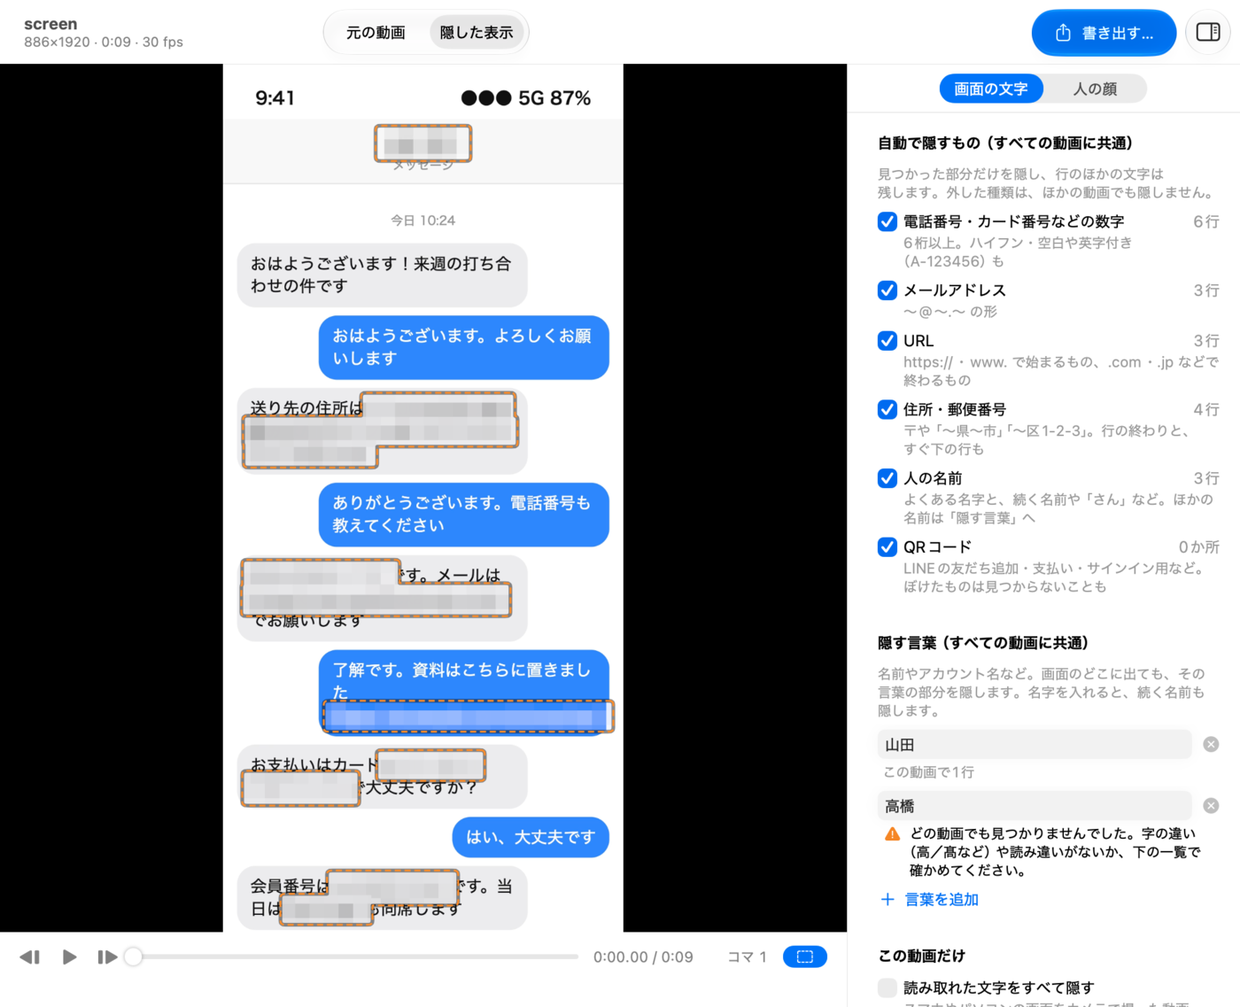
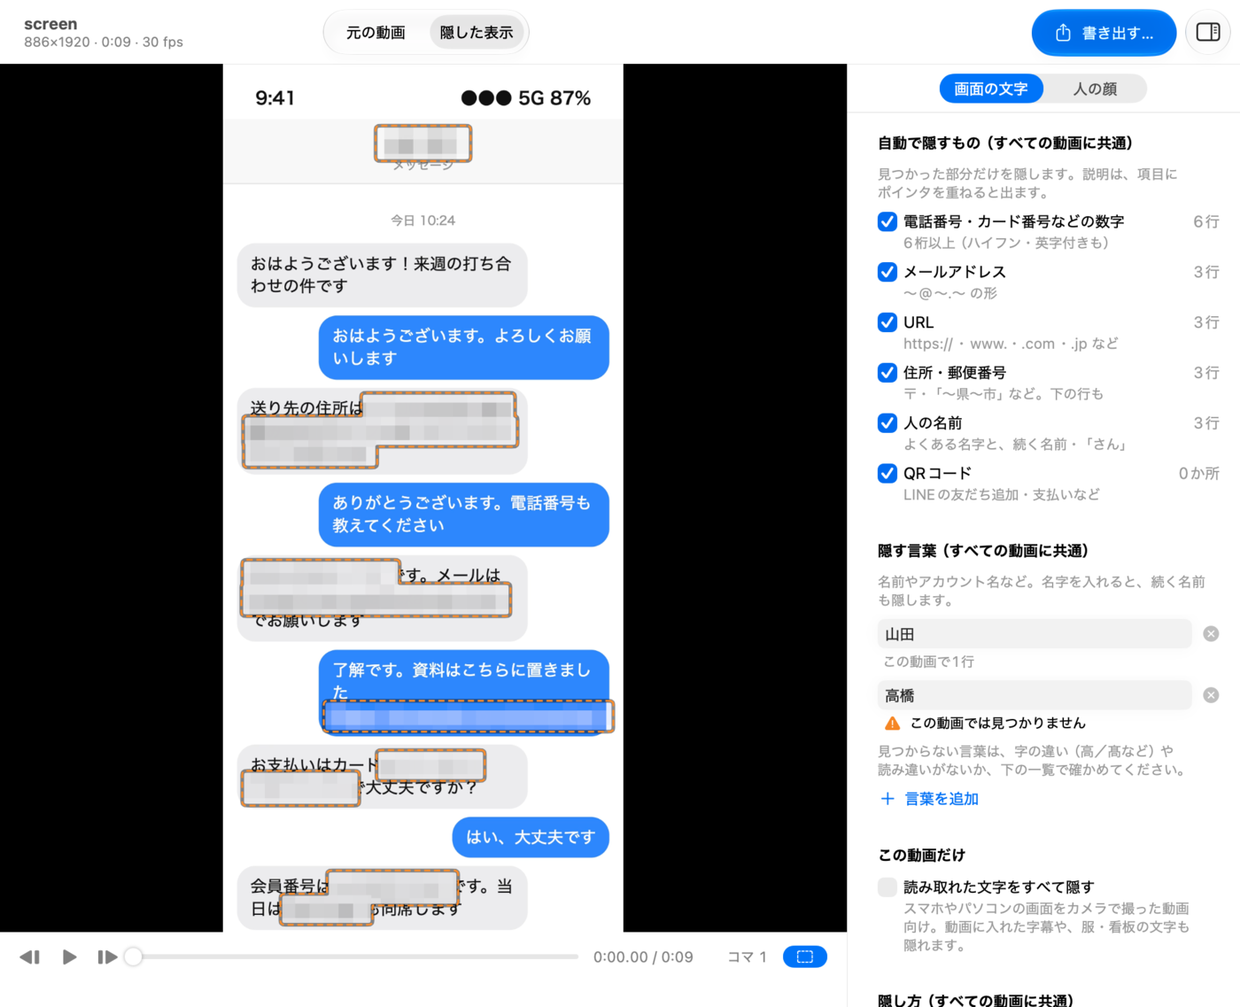
feat(ui): 右の欄の文字を減らし、確かめてほしい場面を書き出す前から出す
- 「自動で隠すもの」の各項目の説明を 1 行に縮めた（2〜3 行ずつあり、欄の
  下が画面の外に出ていた）。くわしい説明はポインタを重ねると出る
- 「隠す言葉」が見つからないときの警告を 1 行にし、対処の案内は言葉の一覧の
  下に 1 回だけ出す（言葉ごとに 3 行の警告が出ていた）
- 隠している顔の数が前後より減る「確かめてほしい場面」を、書き出した後だけで
  なく、人を選んだ時点で再生バーの ▼ に出す。⌘[ / ⌘] で前後の場面へ移れる
  （書き出してから気づくと、選び直して書き出し直すことになっていた）
- README の「画面の文字」の画像を撮り直した（架空データの画面録画）

⌘Q で終了しないように見えた件は、書き出していない動画があるときの確認の
表示で、不具合ではなかった（何も選んでいなければすぐ終了する）。

diff --git a/Sources/WipeMosaicApp/TextInspectorView.swift b/Sources/WipeMosaicApp/TextInspectorView.swift
@@ -12,15 +12,17 @@ extension TextKind {
         case .qr: "QRコード"
         }
     }
-    /// One line under the label; the details are in the help tag.
+    /// One line under the label, short enough not to wrap in the narrowest inspector (two or
+    /// three lines under each of six kinds pushed the rest of the column out of sight); the
+    /// details are in the help tag.
     var note: String {
         switch self {
-        case .number: "6桁以上。ハイフン・空白や英字付き（A-123456）も"
+        case .number: "6桁以上（ハイフン・英字付きも）"
         case .email: "〜@〜.〜 の形"
-        case .url: "https://・www. で始まるもの、.com・.jp などで終わるもの"
-        case .address: "〒や「〜県〜市」「〜区1-2-3」。行の終わりと、すぐ下の行も"
-        case .name: "よくある名字と、続く名前や「さん」など。ほかの名前は「隠す言葉」へ"
-        case .qr: "LINEの友だち追加・支払い・サインイン用など。ぼけたものは見つからないことも"
+        case .url: "https://・www.・.com・.jp など"
+        case .address: "〒・「〜県〜市」など。下の行も"
+        case .name: "よくある名字と、続く名前・「さん」"
+        case .qr: "LINEの友だち追加・支払いなど"
         }
     }
     var detail: String {
@@ -98,7 +100,7 @@ struct TextInspectorView: View {
         Section {
             Text(video.textAll
                  ? "この動画は、読み取れた文字をすべて隠しています（下の「この動画だけ」）。"
-                 : "見つかった部分だけを隠し、行のほかの文字は残します。外した種類は、ほかの動画でも隠しません。")
+                 : "見つかった部分だけを隠します。説明は、項目にポインタを重ねると出ます。")
                 .font(.callout)
                 .foregroundStyle(.secondary)
                 .fixedSize(horizontal: false, vertical: true)
@@ -123,12 +125,12 @@ struct TextInspectorView: View {
                         Text(kind.note)
                             .font(.callout)
                             .foregroundStyle(.secondary)
-                            .fixedSize(horizontal: false, vertical: true)
+                            .lineLimit(1)
                     }
                 }
                 .toggleStyle(.checkbox)
                 .disabled(video.textAll)
-                .help(kind.detail)
+                .help(kind.detail + "外した種類は、ほかの動画でも隠しません。")
                 .listRowSeparator(.hidden)
             }
         } header: {
@@ -162,10 +164,11 @@ struct TextInspectorView: View {
         // Counted where the mosaic is made (in the background); nothing while it is remade.
         let others = model.videos.filter { $0.id != video.id && $0.textMask != nil }
         return Section {
-            Text("名前やアカウント名など。画面のどこに出ても、その言葉の部分を隠します。名字を入れると、続く名前も隠します。")
+            Text("名前やアカウント名など。名字を入れると、続く名前も隠します。")
                 .font(.callout)
                 .foregroundStyle(.secondary)
                 .fixedSize(horizontal: false, vertical: true)
+                .help("画面のどこに出ても、その言葉の部分を隠します。")
                 .listRowSeparator(.hidden)
             ForEach(model.textWords, id: \.self) { w in
                 VStack(alignment: .leading, spacing: 3) {
@@ -177,6 +180,17 @@ struct TextInspectorView: View {
                     }
                 }
                 .listRowSeparator(.hidden)
+            }
+            // What to do about the words not found, once (it was under each of them: three
+            // lines of warning a word, in every video that does not show it).
+            if model.textWords.contains(where: { w in
+                video.textMask?.wordLines[w] == 0 && others.allSatisfy { ($0.textMask?.wordLines[w] ?? 0) == 0 }
+            }) {
+                Text("見つからない言葉は、字の違い（高／髙など）や読み違いがないか、下の一覧で確かめてください。")
+                    .font(.callout)
+                    .foregroundStyle(.secondary)
+                    .fixedSize(horizontal: false, vertical: true)
+                    .listRowSeparator(.hidden)
             }
             if model.addingTextWord || model.textWords.isEmpty {
                 // Return adds the word and leaves a new empty field, to type the next one.
@@ -442,14 +456,15 @@ private struct WordHits: View {
                 .foregroundStyle(.secondary)
                 .padding(.leading, 4)
         } else {
+            // One line a word: what to do about it is said once, under the words.
             Label {
-                Text("\(othersRead ? "どの動画でも" : "この動画では")見つかりませんでした。字の違い（高／髙など）や読み違いがないか、下の一覧で確かめてください。")
-                    .fixedSize(horizontal: false, vertical: true)
+                Text("\(othersRead ? "どの動画でも" : "この動画では")見つかりません")
             } icon: {
                 Image(systemName: "exclamationmark.triangle.fill").foregroundStyle(.orange)
             }
             .font(.callout)
             .padding(.leading, 4)
+            .help("この言葉は隠れていません。字の違い（高／髙など）や読み違いがないか、下の「見つかった文字」の一覧で確かめてください。")
         }
     }
 }

diff --git a/Sources/WipeMosaicApp/PlayerView.swift b/Sources/WipeMosaicApp/PlayerView.swift
@@ -386,7 +386,7 @@ private struct TransportBar: View {
         return d.isFinite && d > 0 ? d : max(video.info?.duration ?? 1, 0.01)
     }
 
-    private var hasDips: Bool { video.summary?.dips.isEmpty == false }
+    private var hasDips: Bool { !model.shownDips.isEmpty }
 
     var body: some View {
         // At the narrowest window the timeline keeps room to drag: the frame number goes
@@ -440,7 +440,7 @@ private struct TransportBar: View {
                  ? "青い太線は「人物 \(id)」が映っている場面です（隠す人）。"
                  : "太線は「人物 \(id)」が映っている場面です（まだ隠していない人）。")
         } else if hasDips {
-            Text("\(Text(Image(systemName: "arrowtriangle.down.fill")).foregroundStyle(.orange))は書き出した動画で確かめてほしい場面です（押すとその場面へ）。")
+            Text("\(Text(Image(systemName: "arrowtriangle.down.fill")).foregroundStyle(.orange))は確かめてほしい場面です（押すとその場面へ。⌘] で次へ）。")
         } else {
             Text(" ").accessibilityHidden(true)
         }
@@ -566,13 +566,14 @@ private struct Timeline: View {
                 }
             }
             .onDisappear { model.timelineHover = nil }
-            // Places to check in the exported file (fewer faces hidden than just before and
-            // after), above the track: a triangle, not a color only.
+            // Places to check (fewer faces hidden than just before and after) with the current
+            // choices, or in the exported file while it is shown, above the track: a triangle,
+            // not a color only.
             .overlay(alignment: .topLeading) {
-                if let dips = video.summary?.dips {
-                    ForEach(dips) { d in
+                if hasDips {
+                    ForEach(model.shownDips) { d in
                         Button {
-                            model.review(d)
+                            model.reviewShown(d)
                         } label: {
                             // A glyph big enough to see and a target big enough to hit
                             // (24×24 pt), above the track so it does not take the knob's drags.
@@ -584,7 +585,7 @@ private struct Timeline: View {
                                 .contentShape(Rectangle())
                         }
                         .buttonStyle(.plain)
-                        .help("確かめてほしい場面（\(formatTime(d.start))）：前後より隠す顔が減っています。押すと書き出した動画のこの場面へ移動します")
+                        .help("確かめてほしい場面（\(formatTime(d.start))）：前後より隠す顔が減っています。押すとこの場面へ移動します")
                         .accessibilityLabel("確かめてほしい場面 \(formatTime(d.start))")
                         .position(x: x(d.start), y: -Self.dipRow / 2)
                     }
@@ -615,7 +616,7 @@ private struct Timeline: View {
         }
     }
 
-    private var hasDips: Bool { video.summary?.dips.isEmpty == false }
+    private var hasDips: Bool { !model.shownDips.isEmpty }
     /// Height of the row of dip markers above the track (and of their click targets).
     static let dipRow: CGFloat = 24
 }

diff --git a/Sources/WipeMosaicApp/AppModel.swift b/Sources/WipeMosaicApp/AppModel.swift
@@ -1031,7 +1031,11 @@ final class AppModel {
     /// Push the current selection and settings to the player's mosaic and redraw if paused.
     private func refreshLive() {
         guard let v = current else { return }
-        v.live.update(frames: frames(for: v), render: render(for: v), enabled: viewMode == .mosaic)
+        let frames = frames(for: v)
+        v.live.update(frames: frames, render: render(for: v), enabled: viewMode == .mosaic)
+        // The places to check, before writing the file too: found only after it was written,
+        // each one meant choosing again and writing again.
+        v.liveDips = findDips(frames)
         redrawIfPaused()
     }
 
@@ -1144,9 +1148,17 @@ final class AppModel {
         }
     }
 
-    /// The dips of the exported file before or after the playhead, for the Play menu.
+    /// The places to check in what is shown: of the exported file while it is shown, else of
+    /// the current choices (the same rule, `findDips`).
+    var shownDips: [Dip] {
+        guard let v = current else { return [] }
+        return viewMode == .result ? v.summary?.dips ?? [] : v.liveDips
+    }
+
+    /// The dips shown before or after the playhead, for the Play menu.
     func dip(after: Bool) -> Dip? {
-        guard let dips = current?.summary?.dips, !dips.isEmpty else { return nil }
+        let dips = shownDips
+        guard !dips.isEmpty else { return nil }
         let t = playheadTime
         if after { return dips.first { $0.start > t + 0.01 } }
         return dips.last { $0.start < t - 0.01 }
@@ -1400,6 +1412,14 @@ final class AppModel {
     func review(_ dip: Dip) {
         resetZoom()  // checking the exported file: the whole picture, not a part of it
         viewMode = .result
+        seek(to: dip.start)
+    }
+
+    /// Shows one of `shownDips`: in the exported file while it is shown, else with the mosaic
+    /// of the current choices (not in the original, where nothing is hidden to check).
+    func reviewShown(_ dip: Dip) {
+        resetZoom()
+        if viewMode == .original { viewMode = .mosaic }
         seek(to: dip.start)
     }
 

diff --git a/Sources/WipeMosaicApp/WipeMosaicApp.swift b/Sources/WipeMosaicApp/WipeMosaicApp.swift
@@ -126,13 +126,15 @@ private struct AppCommands: Commands {
             .disabled(!model.hasVideo)
             Divider()
             Button("前の確かめてほしい場面") {
-                if let d = model.dip(after: false) ?? model.current?.summary?.dips.last { model.review(d) }
+                if let d = model.dip(after: false) ?? model.shownDips.last { model.reviewShown(d) }
             }
-            .disabled(model.current?.summary?.dips.isEmpty != false)
+            .keyboardShortcut("[")
+            .disabled(model.shownDips.isEmpty)
             Button("次の確かめてほしい場面") {
-                if let d = model.dip(after: true) ?? model.current?.summary?.dips.first { model.review(d) }
+                if let d = model.dip(after: true) ?? model.shownDips.first { model.reviewShown(d) }
             }
-            .disabled(model.current?.summary?.dips.isEmpty != false)
+            .keyboardShortcut("]")
+            .disabled(model.shownDips.isEmpty)
         }
         CommandMenu("人物") {
             Button("全員を隠す") { model.selectAll() }

diff --git a/Sources/WipeMosaicApp/VideoItem.swift b/Sources/WipeMosaicApp/VideoItem.swift
@@ -250,6 +250,9 @@ final class VideoItem: Identifiable {
         return out
     }
 
+    /// Places to check with the current choices (`findDips`), for the shown video.
+    var liveDips: [Dip] = []
+
     func frames(hold: Double, stickered: Set<Int>) -> [FrameFaces] {
         let faces = analysis?.frames(selected: selected, endHold: hold, stickered: stickered) ?? []
         guard let text, let mask = textMask, !mask.isEmpty else { return faces }

diff --git a/docs/USAGE.md b/docs/USAGE.md
@@ -11,7 +11,7 @@
    - 「人物Nと同じ人かもしれません」：同じ人が分かれて出た可能性。選ぶと一緒に選ばれる
    - 「登録した顔に似ています」「『動画名』で選んだ人に似ています」：最初から選ばれている／選んでいない似た人。選んでいない似た人がいると一覧の上に件数と「まとめて選ぶ」が出る（自動では選ばない）
    - 間違えたら ⌘Z で取り消せる（⇧⌘Z でやり直し）
-3. **動画と再生バー**：「隠した表示」では、書き出しと同じモザイクのまま再生できる。再生バーは常に表示され、コマ送りと、選んだ人が映る区間の太線（隠す人はアクセント色）が出る。つまみを動かすと、絵は追いつける速さで更新され、離した位置のコマで止まる。つまみの上にポインタを置くとその位置の時刻が出る。書き出した後は「確かめてほしい場面」がつまみの上に ▼ で出て、押すと書き出し結果のその場面へ移る。キー操作は QuickTime Player と同じく、スペースで再生／一時停止、← → で 1 コマ、⇧← ⇧→ で 1 秒、K で一時停止、L で再生（もう一度押すと速くなる）。文字の入力中は効かない。速さ（0.5 倍〜2 倍）は「再生」メニューの「速さ」でも変えられ、ふつう以外の間は時刻の横に表示する（動画を切り替えるとふつうに戻る）。「再生」メニューには前の／次の「確かめてほしい場面」もある。一時停止中は顔に枠が出る（アクセント色の実線＝隠す人、白の点線＝隠さない人）。「画面の文字」では、一時停止中に隠す範囲がオレンジの点線で出る。顔の枠と文字の枠は、再生バー右端の枠ボタン（表示中は青く塗られる）か ⌘B でまとめて隠せる。隠す人の枠は、モザイクやぼかしがかかる範囲（「隠す広さ」で広げた範囲）で出る。表示は「元の動画／隠した表示／書き出し結果」（⌘1〜⌘3。「表示」メニューでは今の表示にチェックが付く）。左の動画の一覧は「表示」メニューの「動画の一覧を閉じる」（⌃⌘S）、右の欄は「隠すものの欄を閉じる」（⌃⌘I）でも開閉できる。小さな顔や画面の文字を確かめるときは拡大できる（最大 8 倍）：「表示」メニューの「拡大」（⌘+）「縮小」（⌘−）「全体を表示」（⌘0。ポインタが動画の上にあれば、その位置を中心に拡大する）、または動画の上でピンチ（トラックパッドの 2 本指のダブルタップで 2 倍と全体を切り替え）。拡大中は動画をドラッグするかスクロールして見る場所を動かす。拡大中は動画の左下に、動画全体の縮小表示と見えている範囲の白枠、拡大率が出る（押すと全体に戻る）。拡大率は 3 つの表示を切り替えても変わらず、動画を切り替えたとき、「確かめてほしい場面」や「再生して確かめる」を押したときは全体に戻る（書き出した動画は全体で確かめるため）。拡大中に一覧から人を選ぶと、その人の顔を真ん中に出す。顔か文字を探した後は、時刻の横に表示中のコマの番号が出る（番号が変わると枠も変わる。全体のコマ数はポインタを重ねると出る）。ウインドウが狭いときは、コマの番号、時刻の順に省く
+3. **動画と再生バー**：「隠した表示」では、書き出しと同じモザイクのまま再生できる。再生バーは常に表示され、コマ送りと、選んだ人が映る区間の太線（隠す人はアクセント色）が出る。つまみを動かすと、絵は追いつける速さで更新され、離した位置のコマで止まる。つまみの上にポインタを置くとその位置の時刻が出る。隠す人を選ぶと、前後より隠す顔の数が減る「確かめてほしい場面」がつまみの上に ▼ で出て、押すとその場面へ移る（⌘] で次、⌘[ で前。「隠した表示」ではいまの選択、「書き出し結果」では書き出した動画の場面）。キー操作は QuickTime Player と同じく、スペースで再生／一時停止、← → で 1 コマ、⇧← ⇧→ で 1 秒、K で一時停止、L で再生（もう一度押すと速くなる）。文字の入力中は効かない。速さ（0.5 倍〜2 倍）は「再生」メニューの「速さ」でも変えられ、ふつう以外の間は時刻の横に表示する（動画を切り替えるとふつうに戻る）。「再生」メニューには前の／次の「確かめてほしい場面」もある。一時停止中は顔に枠が出る（アクセント色の実線＝隠す人、白の点線＝隠さない人）。「画面の文字」では、一時停止中に隠す範囲がオレンジの点線で出る。顔の枠と文字の枠は、再生バー右端の枠ボタン（表示中は青く塗られる）か ⌘B でまとめて隠せる。隠す人の枠は、モザイクやぼかしがかかる範囲（「隠す広さ」で広げた範囲）で出る。表示は「元の動画／隠した表示／書き出し結果」（⌘1〜⌘3。「表示」メニューでは今の表示にチェックが付く）。左の動画の一覧は「表示」メニューの「動画の一覧を閉じる」（⌃⌘S）、右の欄は「隠すものの欄を閉じる」（⌃⌘I）でも開閉できる。小さな顔や画面の文字を確かめるときは拡大できる（最大 8 倍）：「表示」メニューの「拡大」（⌘+）「縮小」（⌘−）「全体を表示」（⌘0。ポインタが動画の上にあれば、その位置を中心に拡大する）、または動画の上でピンチ（トラックパッドの 2 本指のダブルタップで 2 倍と全体を切り替え）。拡大中は動画をドラッグするかスクロールして見る場所を動かす。拡大中は動画の左下に、動画全体の縮小表示と見えている範囲の白枠、拡大率が出る（押すと全体に戻る）。拡大率は 3 つの表示を切り替えても変わらず、動画を切り替えたとき、「確かめてほしい場面」や「再生して確かめる」を押したときは全体に戻る（書き出した動画は全体で確かめるため）。拡大中に一覧から人を選ぶと、その人の顔を真ん中に出す。顔か文字を探した後は、時刻の横に表示中のコマの番号が出る（番号が変わると枠も変わる。全体のコマ数はポインタを重ねると出る）。ウインドウが狭いときは、コマの番号、時刻の順に省く
 4. **隠し方の調整**（一覧の下、開閉できる。すべての動画に共通）：基本の隠し方（モザイク／ぼかし。顔と画面の文字の両方に使う）、モザイクの粗さ・ぼかしの強さ（既定はおまかせ＝長辺÷60。「おまかせ」を外すと 8〜96px で指定。ぼかしも同じ大きさでモザイクにしてからぼかすので、モザイクより読み取りやすくはならない）、スタンプの大きさ（スタンプを使う人がいるときだけ。既定 120%、80〜200%）、顔の前後も続ける時間（既定 1 秒、0〜3 秒）、モザイク（ぼかし）の広さ（45%）。動かすとすぐ「隠した表示」へ反映される。「画面の文字」の一覧にも「隠し方（すべての動画に共通）」として同じ基本の隠し方と粗さ・強さが出る
 5. **書き出す**：ツールバーの「書き出す…」か ⌘E。本数にかかわらず同じシートが開き、書き出す動画（まだ書き出していない動画にチェック。2 本以上なら「すべて」で一括）と保存先（元の動画と同じフォルダ／ほかのフォルダ）を確かめてから書き出す。名前は「元の名前_mosaic」で、同じ名前があれば上書きせず番号を付ける。顔や文字をまだ探している動画は、終わるまで書き出せない（「両方」を選んだ動画で、片方だけが入った動画にならないように）。シートの上には「自動で見つからなかった顔や文字は隠れません。公開する前に、書き出した動画を最後まで確かめてください。」と出る。動画ごとに、顔が見つかったのに誰も選んでいない（「顔がN人見つかりましたが、誰も選んでいません（顔は隠れません）」）、「自動で隠すもの」で外した種類がある、探すのを中止した・失敗した、スタンプの画像から顔が透ける・はみ出す（そのときはスタンプの下にもモザイクをかけて書き出す）のような注意が出る。顔か文字の片方だけを選んだ動画は、もう片方について「人の顔は探していません（顔が映っていても隠れません）」のような注意を出す。「隠す言葉」に、どの動画でも見つかっていない言葉があるときも注意が出る。選んでいない似た人がいる動画には注意と「確かめる」（シートを閉じてその動画へ移る）が出る。1 本でも複数でも、進み具合のバーと「中止」（複数なら「書き出し中 n%（k／N本目）」と「すべて中止」）は動画の上、ツールバーのすぐ下に出る（動画の一覧や右の欄を閉じていても見える）。動画の行と右の欄には「書き出し中 n%」の文字だけが出る（右の欄にも「中止」がある）。書き出しは始めたときの選択で行い、書き出し中に選び直した分は入らない（右の欄にそう出る）。複数は 1 本ずつ順に書き出す。中止すると途中のファイルは消す
 6. **結果**：一覧の上に「書き出しました」とファイル名、「再生して確かめる」「Finderで表示」、前後より隠す顔の数が減る「確かめてほしい場面」が出る。書き出した後に人の選択や隠し方（スタンプ・時間・広さ・粗さ・ぼかし・スタンプの大きさ）を変えると「書き出し済み」が外れ、もう一度書き出すよう表示される
